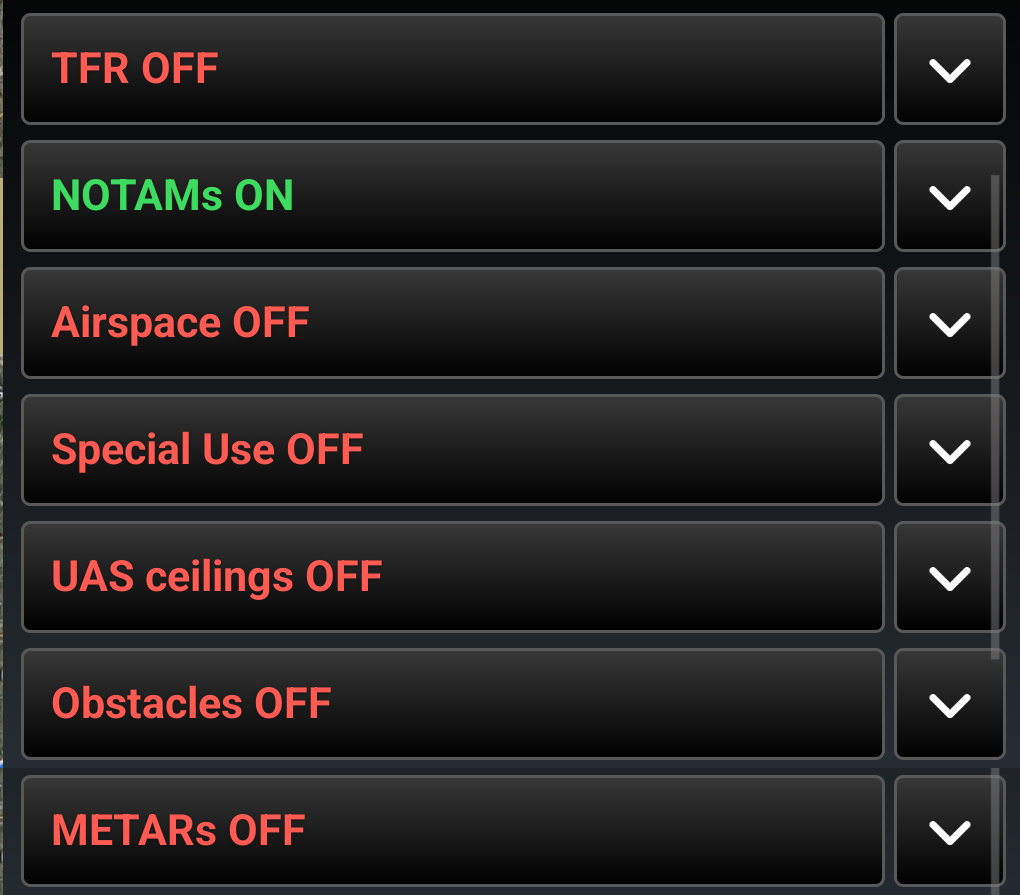
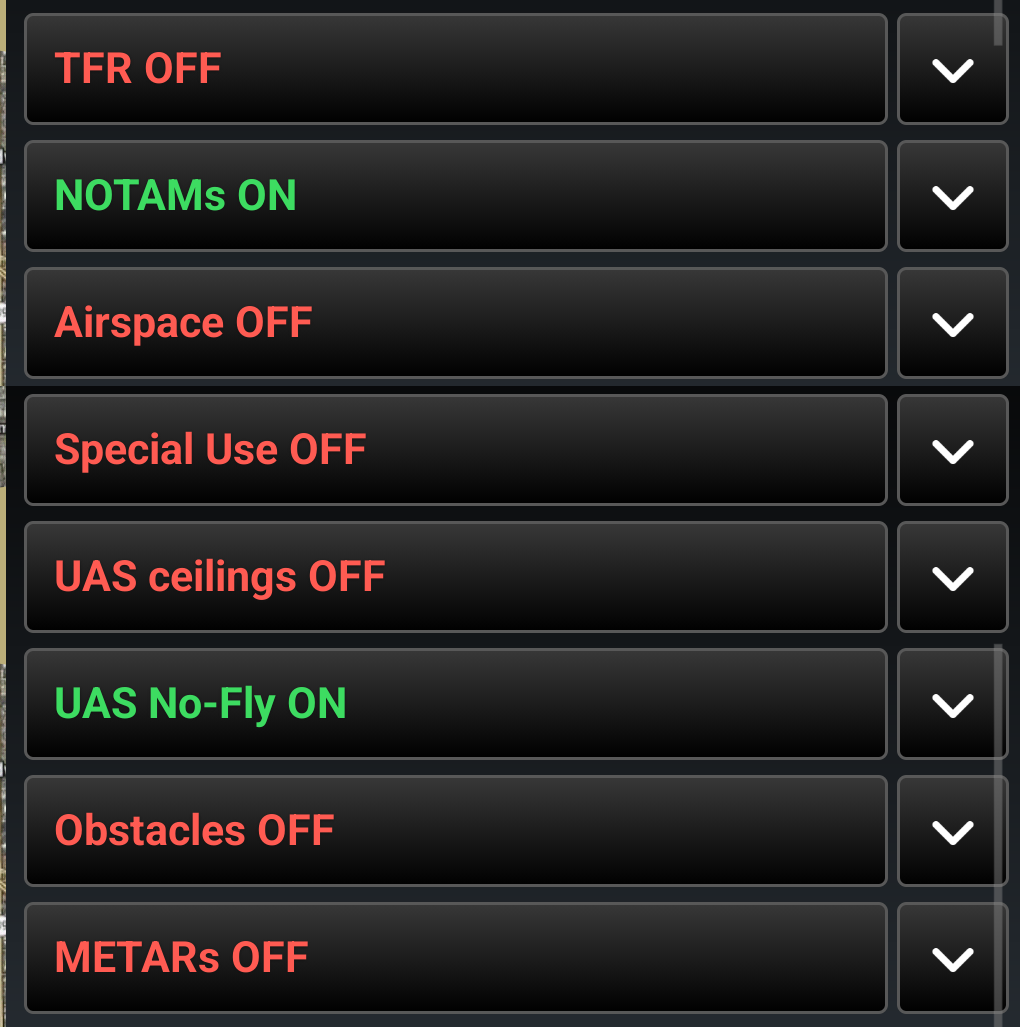
AirAware 0.8: UAS No-Fly pictures, manual pages, guide and README
The resubmission that carries the pictures; the signed 0.7 (5.8 only) is
never published. Map shot 45 from the signed 0.7 on the official 5.8
phone over San Diego Bay, framed by the operator; pane crops 3 (eight
rows), 10 (map key), 43 (the row open) and 44 (details page, cropped
above the FAA's point of contact) from the dev build on s10-dev-3.
Manual: three new pages after UAS ceilings, the settings list, eight
layers. Guide and README: the layer, STATUS, download block at 0.8.
Two wording fixes seen in the pictures: a blank line before the
proponent on the details page, and a shorter map key line that fits the
pane. PLUGIN_VERSION 0.8.

diff --git a/plugins/AirAware/app/src/main/java/com/atakmap/android/airaware/ui/TfrPane.java b/plugins/AirAware/app/src/main/java/com/atakmap/android/airaware/ui/TfrPane.java
@@ -1392,7 +1392,7 @@ public class TfrPane implements TfrManager.Listener {
 
         if (manager.isLayerOn(TfrManager.LAYER_NSUFR)) {
             addKeyHeading("UAS No-Fly");
-            addKeyLine("No UAS flight, surface to 400 ft: national security restriction",
+            addKeyLine("No UAS flight, surface to 400 ft (national security)",
                     NsufrFeatures.color(Nsufr.FULL_TIME));
             addKeyLine("Part-time: no UAS flight when the facility activates it",
                     NsufrFeatures.color(Nsufr.PART_TIME));
@@ -1797,8 +1797,9 @@ public class TfrPane implements TfrManager.Listener {
             b.append(n.adviseNote).append('\n');
         // The base, when the title is not already it (64 rows name the facility by the
         // base's name, and many name only the base).
+        b.append('\n');
         if (!n.base.isEmpty() && !n.base.equals(n.title()))
-            b.append("\nBase: ").append(n.base).append('\n');
+            b.append("Base: ").append(n.base).append('\n');
         if (!n.branchName().isEmpty())
             b.append("Proponent: ").append(n.branchName());
         if (!n.proponent.isEmpty() && !n.proponent.equalsIgnoreCase(n.branch))

diff --git a/plugins/AirAware/docs/USER_GUIDE.md b/plugins/AirAware/docs/USER_GUIDE.md
@@ -1,17 +1,17 @@
 # AirAware for ATAK — User Guide
 
-**Version 0.6 · takwerx**
+**Version 0.8 · takwerx**
 
-**Download AirAware 0.6** (pick the one matching your ATAK-CIV version, sideload, then load it in ATAK's Plugins manager):
+**Download AirAware 0.8** (pick the one matching your ATAK-CIV version, sideload, then load it in ATAK's Plugins manager):
 
-- **ATAK-CIV 5.6:** https://github.com/takwerx/air-aware/releases/download/v0.6/ATAK-Plugin-AirAware-0.6--5.6.0-civ-release.apk
-- **ATAK-CIV 5.7:** https://github.com/takwerx/air-aware/releases/download/v0.6/ATAK-Plugin-AirAware-0.6--5.7.0-civ-release.apk
-- **ATAK-CIV 5.8:** https://github.com/takwerx/air-aware/releases/download/v0.6/ATAK-Plugin-AirAware-0.6--5.8.0-civ-release.apk
+- **ATAK-CIV 5.6:** https://github.com/takwerx/air-aware/releases/download/v0.8/ATAK-Plugin-AirAware-0.8--5.6.0-civ-release.apk
+- **ATAK-CIV 5.7:** https://github.com/takwerx/air-aware/releases/download/v0.8/ATAK-Plugin-AirAware-0.8--5.7.0-civ-release.apk
+- **ATAK-CIV 5.8:** https://github.com/takwerx/air-aware/releases/download/v0.8/ATAK-Plugin-AirAware-0.8--5.8.0-civ-release.apk
 
 All releases: https://github.com/takwerx/air-aware/releases
 
 AirAware answers one question for anyone working under or in the air: **what is
-in the column of air I am in, and what am I allowed to do here.** Seven layers
+in the column of air I am in, and what am I allowed to do here.** Eight layers
 draw on the map, each switched on its own, and a UAS flight planner works out
 the ceiling a mission area needs.
 
@@ -23,7 +23,7 @@ phone.
 
 ## Before you start
 
-- **ATAK versions.** Version 0.4 is published for ATAK-CIV 5.6, 5.7 and 5.8.
+- **ATAK versions.** Version 0.8 is published for ATAK-CIV 5.6, 5.7 and 5.8.
   A plugin built for another ATAK version will not load.
 - **Everything here is advisory.** AirAware is not a substitute for current
   charts and NOTAMs, and it is not a clearance. Check the official source
@@ -58,7 +58,7 @@ Under them, **LAYERS**, with **All on** and **All off**.
 
 ## The layers
 
-![The six layer rows](screenshots/3_layer_rows.png)
+![The eight layer rows](screenshots/3_layer_rows.png)
 
 One row per layer. The row itself is the switch: it reads the layer's name with
 **ON** in green or **OFF** in red, and tapping it turns the layer on or off.
@@ -80,6 +80,7 @@ Each layer carries only what belongs to it:
 | Airspace | Classes, Show at, 3D, Names on the map |
 | Special Use | Kinds, Show at, 3D, Names on the map |
 | UAS ceilings | Show at |
+| UAS No-Fly | Show at, 3D |
 | Obstacles | Kinds, Taller than, Show at |
 | METARs | Show at |
 
@@ -256,6 +257,40 @@ further coordination.
 
 These are the heights an authorization is granted against. They are not a
 clearance by themselves.
+
+---
+
+## UAS No-Fly
+
+Where no drone may fly at all: the FAA's National Security UAS Flight
+Restrictions, from the surface to 400 ft above the ground.
+
+![No-fly areas around San Diego Bay](screenshots/45_nofly_map.jpg)
+
+Military bases, Coast Guard stations, national laboratories, dams and nuclear
+sites, each drawn as a **red** ring with a light fill and the facility's name.
+A **part-time** area (orange) is closed when the facility activates it. A
+**pending** one (gray) has been announced and is not yet in force.
+
+These are not ceilings and not notices. A UAS ceiling says how high you may fly
+with an authorization; a no-fly area says there is no authorization to apply
+for. It is a prohibition under 14 CFR 99.7, and it does not expire.
+
+![The UAS No-Fly row open](screenshots/43_nofly_row.png)
+
+The whole country is one download, under two megabytes, kept on the phone and
+fetched again only when the FAA's list changes. The row says how many areas are
+in view. **Show at** is the zoom gate, read off ATAK's scale bar: fifty miles
+unless you change it, because these areas are small and matter from a long way
+out. **3D** stands each area up to its published ceiling; off unless you switch
+it on. When you are standing inside one, the pinned status line says so.
+
+![A no-fly area's details page](screenshots/44_nofly_details.png)
+
+Tap one for its page: the prohibition in plain words, the facility and the
+base, who runs it, the reason, where it is, and the point of contact the FAA
+publishes with it, which is the number to call about it. A part-time area's
+page also says how it is activated and what the FAA advises.
 
 ---
 

diff --git a/plugins/AirAware/README.md b/plugins/AirAware/README.md
@@ -1,10 +1,10 @@
 ATAK Plugin — AirAware
 
-**Download AirAware 0.6** (pick the one matching your ATAK-CIV version, sideload, then load it in ATAK's Plugins manager):
+**Download AirAware 0.8** (pick the one matching your ATAK-CIV version, sideload, then load it in ATAK's Plugins manager):
 
-- **ATAK-CIV 5.6:** https://github.com/takwerx/air-aware/releases/download/v0.6/ATAK-Plugin-AirAware-0.6--5.6.0-civ-release.apk
-- **ATAK-CIV 5.7:** https://github.com/takwerx/air-aware/releases/download/v0.6/ATAK-Plugin-AirAware-0.6--5.7.0-civ-release.apk
-- **ATAK-CIV 5.8:** https://github.com/takwerx/air-aware/releases/download/v0.6/ATAK-Plugin-AirAware-0.6--5.8.0-civ-release.apk
+- **ATAK-CIV 5.6:** https://github.com/takwerx/air-aware/releases/download/v0.8/ATAK-Plugin-AirAware-0.8--5.6.0-civ-release.apk
+- **ATAK-CIV 5.7:** https://github.com/takwerx/air-aware/releases/download/v0.8/ATAK-Plugin-AirAware-0.8--5.7.0-civ-release.apk
+- **ATAK-CIV 5.8:** https://github.com/takwerx/air-aware/releases/download/v0.8/ATAK-Plugin-AirAware-0.8--5.8.0-civ-release.apk
 
 All releases: https://github.com/takwerx/air-aware/releases
 
@@ -19,7 +19,7 @@ in the column of air I am in, and what am I allowed to do here. It is built for
 wildfire aviation and UAS crews and draws everything on the operator's own
 device, with no TAK Server and no Data Sync mission in the path.
 
-Seven layers, each switched on its own from the front page:
+Eight layers, each switched on its own from the front page:
 
   TFR                 FAA Temporary Flight Restrictions, drawn as 3D volumes
                       from the published floor to the published ceiling, red
@@ -49,6 +49,13 @@ Seven layers, each switched on its own from the front page:
                       through red. The pinned status line says it in words for
                       wherever the operator is standing.
 
+  UAS No-Fly          The FAA's National Security UAS Flight Restrictions:
+                      the bases, stations, laboratories, dams and nuclear
+                      sites no drone may fly over at all, surface to 400 ft
+                      AGL. One pack for the whole country, drawn as red rings
+                      with the facility name; the details page carries the
+                      point of contact the FAA publishes with each one.
+
   Obstacles           The FAA Digital Obstacle File — towers, wire spans,
                       transmission towers, turbines and stacks — standing at
                       their published height with the height on a label.
@@ -70,13 +77,14 @@ hides it and never deletes it.
 _________________________________________________________________
 STATUS
 
-Version 0.6, for ATAK-CIV 5.6.0, 5.7.0 and 5.8.0. Adds the NOTAMs layer:
-what is going on in the air right now that no chart shows, read every three
-minutes from the FAA NOTAM Management Service by a takwerx relay and published
-as tiles, so the phone never holds an FAA credential. Sorted by kind, drawn as
-the area the FAA gives where it gives one, with the text as issued on the
-details page. Version 0.5 was the same layer submitted for 5.8 only, to
-photograph; it was not published.
+Version 0.8, for ATAK-CIV 5.6.0, 5.7.0 and 5.8.0. Adds the UAS No-Fly layer:
+the FAA's National Security UAS Flight Restrictions, the bases, stations,
+laboratories, dams and nuclear sites no drone may fly over at all, as one pack
+for the whole country kept on the phone, drawn as red rings with the facility
+name and the FAA's point of contact on the details page. Version 0.7 was the
+same layer submitted for 5.8 only, to photograph; it was not published.
+Version 0.6 added the NOTAMs layer, read every three minutes from the FAA NOTAM
+Management Service by a takwerx relay and published as tiles.
 
 Version 0.4 brought a new icon and drew a geofence made from a restriction
 where it alerts, from the ground to the published ceiling. Version 0.3 was the
